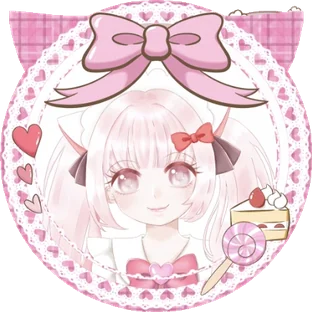
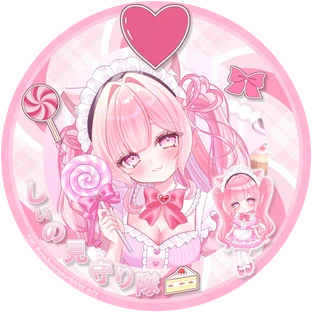
アイコンを1周年イラストに・ファンタグをしぃの見守り隊に

diff --git a/index.html b/index.html
@@ -6,7 +6,7 @@
 <title>しぃ｜公式サイト</title>
 <meta name="description" content="ほにゃららLIVERS所属・Mirrativ配信者しぃの公式サイト。">
 <meta name="theme-color" content="#F3DDE3">
-<meta name="build" content="20261007084357">
+<meta name="build" content="20261007092253">
 <link rel="manifest" href="manifest.webmanifest">
 <link rel="apple-touch-icon" href="apple-touch-icon.png">
 <link rel="icon" type="image/png" href="icon-192.png">
@@ -720,7 +720,7 @@ try{ if(!sessionStorage.getItem('shii_op') && !matchMedia('(prefers-reduced-moti
       <div class="prof__side">
         <dl class="prof__meta">
           <div><dt>FM</dt><dd>🍭🍰꙳.*</dd></div>
-          <div><dt>FT</dt><dd>しぃの見守り</dd></div>
+          <div><dt>FT</dt><dd>しぃの見守り隊</dd></div>
           <div><dt>FA</dt><dd>しぃとふたりごと</dd></div>
         </dl>
         <button class="prof__buddy" id="buddy" type="button" aria-label="しぃをタップ"><span class="buddy__bob"><span class="buddy__flip"><img class="buddy__f" src="img/chibi-a.webp" alt="" width="320" height="569" loading="lazy"><img class="buddy__b" src="img/chibi-b.webp" alt="" width="320" height="569" loading="lazy"></span></span></button>
@@ -842,7 +842,7 @@ try{ if(!sessionStorage.getItem('shii_op') && !matchMedia('(prefers-reduced-moti
 </main>
 
 <footer class="footer">
-  <span>しぃの見守り</span>
+  <span>しぃの見守り隊</span>
   <span>FM 🍭🍰꙳.*</span>
 </footer>
 <script>

diff --git a/admin/index.html b/admin/index.html
@@ -3,7 +3,7 @@
 <head>
 <meta charset="UTF-8">
 <meta name="viewport" content="width=device-width, initial-scale=1, viewport-fit=cover">
-<meta name="build" content="20261007084357">
+<meta name="build" content="20261007092253">
 <meta name="robots" content="noindex, nofollow">
 <meta name="theme-color" content="#F6E4E9">
 <meta name="apple-mobile-web-app-capable" content="yes">

diff --git a/sw.js b/sw.js
@@ -1,5 +1,5 @@
 // しぃの部屋：オフラインでも開けるようにするキャッシュ
-const CACHE = 'shii-20261007084357';
+const CACHE = 'shii-20261007092253';
 const FILES = ['./', './index.html', './manifest.webmanifest', './icon-192.png', './icon-512.png', './apple-touch-icon.png'];
 
 self.addEventListener('install', e => {
